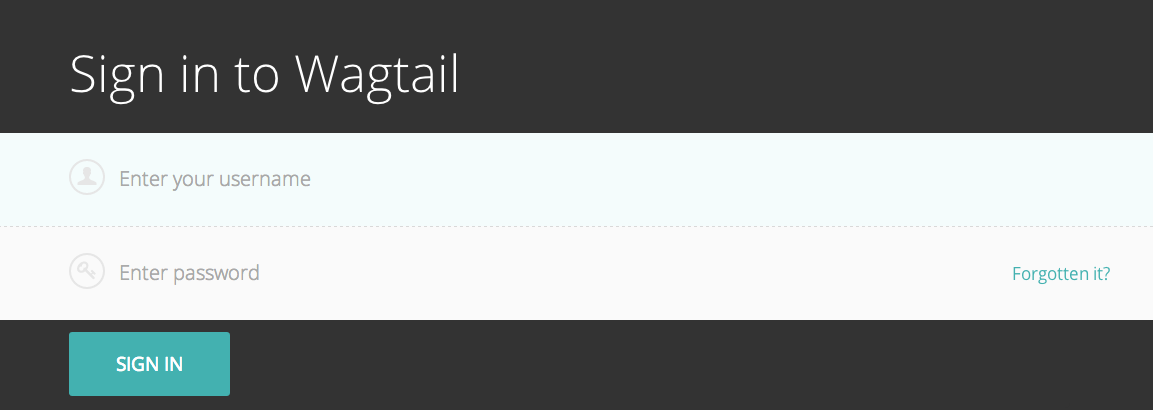
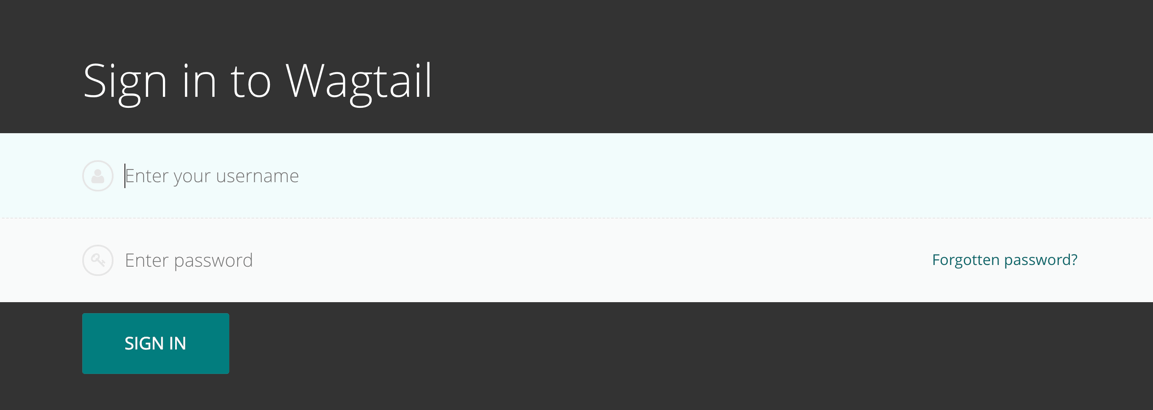
Prevent “Forgotten password” link from overlapping with field on mobile devices (#6748)

diff --git a/wagtail/admin/templates/wagtailadmin/login.html b/wagtail/admin/templates/wagtailadmin/login.html
@@ -35,55 +35,60 @@
 
             <h1>{% block branding_login %}{% trans "Sign in to Wagtail" %}{% endblock %}</h1>
 
-            <ul class="fields">
-                {% block fields %}
-                <li class="full">
-                    <div class="field iconfield">
-                        {{ form.username.label_tag }}
-                        <div class="input icon-user">
-                            {{ form.username }}
-                        </div>
-                    </div>
-                </li>
-                <li class="full">
-                    <div class="field iconfield">
-                        {{ form.password.label_tag }}
-                        <div class="input icon-password">
-                            {{ form.password }}
-                        </div>
-                    </div>
-                </li>
-
-                {% block extra_fields %}
-                {% for field_name, field in form.extra_fields %}gs
-                <li class="full">
-                    {{ field.label_tag }}
-                    <div class="field iconfield">
-                        {{ field }}
-                    </div>
-                </li>
-                {% endfor %}
-                {% endblock extra_fields %}
-
-                {% comment %}
-                    Removed until functionality exists
-                    <li class="checkbox">
-                        <div class="field">
-                            <label><input type="checkbox" />{% trans "Remember me" %}</label>
+            <div class="fields-wrapper">
+                <ul class="fields">
+                    {% block fields %}
+                    <li class="full">
+                        <div class="field iconfield">
+                            {{ form.username.label_tag }}
+                            <div class="input icon-user">
+                                {{ form.username }}
+                            </div>
                         </div>
                     </li>
-                {% endcomment %}
-                {% endblock %}
-                <li class="submit">
-                    {% block submit_buttons %}
-                    <button type="submit" class="button button-longrunning" data-clicked-text="{% trans 'Signing in…' %}">{% icon name="spinner" %}<em>{% trans 'Sign in' %}</em></button>
-                    {% endblock %}
-                </li>
-            </ul>
+                    <li class="full">
+                        <div class="field iconfield">
+                            {{ form.password.label_tag }}
+                            <div class="input icon-password">
+                                {{ form.password }}
+                            </div>
+                        </div>
+                    </li>
 
-            {% if show_password_reset %}
-                <p class="help"><a href="{% url 'wagtailadmin_password_reset' %}" aria-label="{% trans 'Reset your password' %}">{% trans "Forgotten it?" %}</a></p>
-            {% endif %}
+                    {% block extra_fields %}
+                    {% for field_name, field in form.extra_fields %}gs
+                    <li class="full">
+                        {{ field.label_tag }}
+                        <div class="field iconfield">
+                            {{ field }}
+                        </div>
+                    </li>
+                    {% endfor %}
+                    {% endblock extra_fields %}
+
+                    {% comment %}
+                        Removed until functionality exists
+                        <li class="checkbox">
+                            <div class="field">
+                                <label><input type="checkbox" />{% trans "Remember me" %}</label>
+                            </div>
+                        </li>
+                    {% endcomment %}
+                    {% endblock %}
+
+                    <li class="submit">
+                        {% block submit_buttons %}
+                        <button type="submit" class="button button-longrunning" data-clicked-text="{% trans 'Signing in…' %}">{% icon name="spinner" %}<em>{% trans 'Sign in' %}</em></button>
+                        {% endblock %}
+                    </li>
+                </ul>
+
+                {% if show_password_reset %}
+                    <p class="help">
+                        <a class="help__link" href="{% url 'wagtailadmin_password_reset' %}" aria-label="{% trans 'Reset your password' %}">{% trans "Forgotten password?" %}</a>
+                    </p>
+                {% endif %}
+            </div>
         {% endblock %}
         </form>
 

diff --git a/wagtail/admin/static_src/wagtailadmin/scss/layouts/login.scss b/wagtail/admin/static_src/wagtailadmin/scss/layouts/login.scss
@@ -66,6 +66,10 @@ input[type=checkbox]:before {
     border: 1px solid #555;
 }
 
+.fields-wrapper {
+    position: relative;
+}
+
 .fields {
     max-width: none;
 }
@@ -114,16 +118,25 @@ input[type=checkbox]:before {
     line-height: 1.6em;
 }
 
+// Forgotten pasword link
 .help {
-    opacity: 1;
-    position: absolute;
     font-size: 1.3em;
-    margin-top: -0.5em;
-    right: 5%;
-    top: 213px;
+    margin-top: 0;
+    padding: 10px 0;
 
     @include media-breakpoint-up(sm) {
-        top: 65%;
+        position: absolute;
+        top: 139px;
+        right: 5%;
+        padding: 0;
+    }
+
+    &__link {
+        color: $color-white;
+
+        @include media-breakpoint-up(sm) {
+            color: $color-link;
+        }
     }
 }
 

diff --git a/wagtail/admin/tests/test_password_reset.py b/wagtail/admin/tests/test_password_reset.py
@@ -24,13 +24,13 @@ class TestUserPasswordReset(TestCase, WagtailTestUtils):
     def test_login_has_password_reset_option(self):
         response = self.client.get(reverse('wagtailadmin_login'))
         self.assertEqual(response.status_code, 200)
-        self.assertContains(response, "Forgotten it?")
+        self.assertContains(response, "Forgotten password?")
 
     @override_settings(WAGTAIL_PASSWORD_RESET_ENABLED=False)
     def test_login_has_no_password_reset_option_when_disabled(self):
         response = self.client.get(reverse('wagtailadmin_login'))
         self.assertEqual(response.status_code, 200)
-        self.assertNotContains(response, "Forgotten it?")
+        self.assertNotContains(response, "Forgotten password?")
 
     @override_settings(WAGTAIL_PASSWORD_RESET_ENABLED=False)
     def test_password_reset_view_disabled(self):

diff --git a/docs/releases/2.14.rst b/docs/releases/2.14.rst
@@ -23,6 +23,7 @@ Bug fixes
  * Ordering specified in the ``construct_explorer_page_queryset`` hook is now taken into account again by the page explorer API (Andre Fonseca)
  * Deleting a page from its listing view no longer results in a 404 error (Tidjani Dia)
  * The Wagtail admin urls will now respect the ``APPEND_SLASH`` setting (Tidjani Dia)
+ * Prevent “Forgotten password” link from overlapping with field on mobile devices (Helen Chapman)
 
 Upgrade considerations
 ======================
